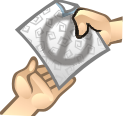
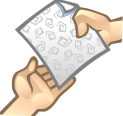
* Multiple selection for share button * Unshare All button is now Shares (email links button not finished)

Changed region(s): [[0.3171, 0.0517, 0.8293, 0.569]]

diff --git a/davis/trunk/WebContent/WEB-INF/ui.html b/davis/trunk/WebContent/WEB-INF/ui.html
@@ -43,6 +43,7 @@
    		.dojoxGrid-row-odd td {background:#e8f2ff;}
     	#metadataGrid {border: 1px solid #333; width: 400px; height: 300px;}
 		#permissionsGrid {border: 1px solid #333; width: 600px; height: 200px;}
+		#sharesGrid {border: 1px solid #333;}
 		#replicasGrid {border: 1px solid #333;}
 		#listingGrid .dojoxGridHeader .dojoxGridCell {background: #E8E8E8; font-size: 120%; text-align: center; border: 1px solid; border-color: white; padding-bottom: 4px;}
 		#listingGrid .dojoxGridRow {background: white;}
@@ -129,8 +130,8 @@
 			if ("<parameter sharinguser/>" == "null" || "<parameter sharingkey/>" == "null") {
 				if (dojo.byId("sharingButtonHolder") != null)
 					dojo.html.set(dojo.byId("sharingButtonHolder"), '');  // Hide sharing button if no sharing user configured
-				if (dojo.byId("unshareAllButton") != null)
-					dojo.html.set(dojo.byId("unshareAllButton"), '');
+				if (dojo.byId("sharesButton") != null)
+					dojo.html.set(dojo.byId("sharesButton"), '');
 				listingLayout[listingLayoutMetadataField].hidden = true;
 		//		listingGrid.setStructure(listingLayout);
 			}
@@ -145,7 +146,7 @@
 			createDomainRow();
 			borderContainer.layout();
 			listingStore.refreshDisplay(true);
-			unshareAllGrid.setSortIndex(1, true);
+			sharesGrid.setSortIndex(1, true);
 			
 			if (dojo.isMozilla)
 				HTMLElement.prototype.click = function() { // Add a click() method to all elements
@@ -230,7 +231,7 @@
     	var replicasLayout;
     	var listingLayout;
     	var destinationLayout;
-    	var unshareAllLayout;
+    	var sharesLayout;
     	
 		var metadataStore;
 		var permissionsStore;
@@ -239,7 +240,7 @@
 		var replicasStore;		
 		var listingStore;
 		var destinationStore;
-		var unshareAllStore;
+		var sharesStore;
 		
 		function initVariables() {
 			metadataLayout = ("<parameter servertype/>" == 'irods') ? 
@@ -273,7 +274,7 @@
 	     			{field: "number", width: "auto", name: "Replica Number"}
 	    		];
 
-	    	unshareAllLayout = [
+	    	sharesLayout = [
 	    		    {field: "file", width: "250px", name: "File", formatter: gridFormatUnescape},
 	    		    {field: "dir", width: "auto", name: "Collection", formatter: gridFormatUnescape}
 	    		];
@@ -296,7 +297,7 @@
 			resetDomainsStore();
 			resetUsersStore();
 			resetReplicasStore();
-			resetUnshareAllStore();
+			resetSharesStore();
 
 			listingStore = new ListingStore({
 				id: "listingStore", // For debugging
@@ -448,8 +449,8 @@
     		dojo.connect(listingGrid, 'onHeaderClick', function(e){
     			selectAll(false); // Clear selections if change of sort (because selections aren't recalculated to match new row order)
     		});
-    		dojo.connect(unshareAllGrid, 'onHeaderClick', function(e){
-    			unshareAllGrid.selection.deselectAll(); // Clear selections if change of sort (because selections aren't recalculated to match new row order)
+    		dojo.connect(sharesGrid, 'onHeaderClick', function(e){
+    			sharesGrid.selection.deselectAll(); // Clear selections if change of sort (because selections aren't recalculated to match new row order)
     		});  		
     		dojo.connect(dojo.byId("shareRadioButton"), 'onClick', function(e){
     			refreshButtons();
@@ -539,8 +540,8 @@
 			replicasStore = resetStore(replicasStore, replicasGrid, replicasLayout, false);
 		}
 		
-		function resetUnshareAllStore() { 
-			unshareAllStore = resetStore(unshareAllStore, unshareAllGrid, unshareAllLayout, false);
+		function resetSharesStore() { 
+			sharesStore = resetStore(sharesStore, sharesGrid, sharesLayout, false);
 		}
 		
 		function resetDomainsStore() { 
@@ -1285,7 +1286,7 @@
 			dojo.html.set(dojo.byId('destinationMoveCopyButton'), mode);
 
 //			var s = sharedIsSelected() ? "Unshare" : "Share";
-			dojo.byId('shareOKButton').disabled = !(dojo.byId('shareRadioButton').checked || dojo.byId('unshareRadioButton').checked);
+			enableButton('shareOKButton', dojo.byId('shareRadioButton').checked || dojo.byId('unshareRadioButton').checked);
 //			if (button) {
 //				button.title = s;
 //				dojo.html.set(button, s);
@@ -1294,7 +1295,8 @@
 			// TBD: For some reason, addMetadataButton would sometimes appear disabled. This is to prevent that. Need to investigate why.
 			enableButton('addMetadataButton', true); 
 			enableButton('uploadStartButton', !uploadInProgress && (dojo.byId('uploadTextField').value.length > 0));
-			enableButton('unshareButton', unshareAllGrid.selection.getSelectedCount() > 0);
+			enableButton('unshareButton', sharesGrid.selection.getSelectedCount() > 0);
+			enableButton('emailSharesButton', sharesGrid.selection.getSelectedCount() > 0);
 		}
 		
 		function setStatusPanel(html) {
@@ -1644,14 +1646,14 @@
 		}
 			
 		function unshareAll() {
-			showUnshareAll(false);
-			if (unshareAllGrid.selection.getSelectedCount() == 0)
+			showShares(false);
+			if (sharesGrid.selection.getSelectedCount() == 0)
 				return;
 		    if (!confirm(warnBulk()+'Are you sure you want to unshare the selected items?'))
 			    return;
 		
 			var list = "";
-			var selected = unshareAllGrid.selection.getSelected();
+			var selected = sharesGrid.selection.getSelected();
 			if (selected != null)
 				for (var i = 0; i < selected.length; i++) 
 					list += "\""+escapeJSON(encodeURI(decodeURIComponent(selected[i].dir+"/"+selected[i].file)))+"\",";
@@ -1692,9 +1694,9 @@
 	    		url: "?method=shares&uihandle="+listingStore.uiHandle,
 	    		load: function(responseObject, ioArgs){    
 	 					cursorBusy(false);
-						unshareAllStore=new dojo.data.ItemFileWriteStore({data: responseObject});
-						unshareAllGrid.setStore(unshareAllStore);	 
-						unshareAllGrid.selection.deselectAll();     			
+						sharesStore=new dojo.data.ItemFileWriteStore({data: responseObject});
+						sharesGrid.setStore(sharesStore);	 
+						sharesGrid.selection.deselectAll();     			
 	       				return responseObject;
 	    			},
 	    		error: function(response, ioArgs){
@@ -2083,13 +2085,21 @@
 //			shareFiles(listingStore.getCurrentDirectory(), action);
 		}
 
-		function showUnshareAll(show) {
+		function showShares(show) {
 			if (show) {
-				resetUnshareAllStore();
+				resetSharesStore();
 				getShares();
-				dialogUnshareAll.show();
+				dialogShares.show();
 			} else {
-				dialogUnshareAll.hide();
+				dialogShares.hide();
+			}
+		}
+
+		function emailSharesLinks() {
+			var selected = sharesGrid.selection.getSelected();
+			if (selected != null) {
+				//for (var i = 0; i < selected.length; i++) 
+					//selected[i].
 			}
 		}
 
@@ -2491,11 +2501,12 @@
 		</tr>
 	</table>
 </div>
-<div dojoType="dijit.Dialog" jsId="dialogShare" title="Sharing" onCancel="setCursor(false, true)">
+<div style="width:300px;" dojoType="dijit.Dialog" jsId="dialogShare" title="Sharing" onCancel="setCursor(false, true)">
 	<div style="text-align: left;">
+	    Please select an action:<br><br>
 		<input type="radio" name="sharingRadioButtons" id="shareRadioButton" value="share" onClick="refreshButtons()">
 		<label for="g1rb1">Share items</label>
-		<br><br>
+		<br>
 		<input type="radio" name="sharingRadioButtons" id="unshareRadioButton" value="unshare" onClick="refreshButtons()">
 		<label for="g1rb2">Unshare items</label>
 		<br><br><br>
@@ -2505,14 +2516,16 @@
 		<button type="button" onclick="dialogShare.hide()">Cancel</button>
 	</div>
 </div>
-<div style="width:90%;" dojoType="dijit.Dialog" jsId="dialogUnshareAll" title="Unshare" onCancel="setCursor(false, true)">
-	<small>Select the shared files owned by <parameter account/> to be unshared:<br><br></small>
-	<div autoHeight="10" structure="unshareAllLayout" dojoType="dojox.grid.DataGrid" id="unshareAllGrid" jsId="unshareAllGrid" loadingMessage="loading" 
+<div style="width:90%;" dojoType="dijit.Dialog" jsId="dialogShares" title="Shares" onCancel="setCursor(false, true)">
+	<small>Shared files owned by <parameter account/>:<br><br></small>
+	<div autoHeight="10" structure="sharesLayout" dojoType="dojox.grid.DataGrid" id="sharesGrid" jsId="sharesGrid" loadingMessage="loading" 
 	     autoHeight="true" onSelectionChanged="refreshButtons()"></div>
 	<br>
 	<div style="text-align: right;">
+		<button type="button" onclick="sharesGrid.selection.selectRange(0, sharesGrid.rowCount-1);">Select all</button>
+		<button type="button" id="emailSharesButton" onclick="dialogShares.hide(); emailSharesLinks()">Email links</button>
 		<button type="button" id="unshareButton" onclick="unshareAll()">Unshare</button>
-		<button type="button" onclick="dialogUnshareAll.hide()">Close</button>
+		<button type="button" onclick="dialogShares.hide()">Close</button>
 	</div>
 </div>
 <div dojoType="dijit.Dialog" jsId="dialogAbout" title="About" onCancel="setCursor(false, true)">
@@ -2571,7 +2584,7 @@
 											<span id="trashButton"><a title="Go to my trash folder" onclick="listingStore.gotoDirectory('<parameter trash/>', true); return false" href="<parameter trash/>"><img border="0" alt="trash" src="/images/trash.png" width="28" height="32"/></a></span>
 											<span id="loginButton"><a title="Login with authentication" onclick="login(); return false" href="login"><img border="0" alt="login" src="/images/login.png" width="26" height="32"/></a></span>
 											<span id="logoutButton"><a title="Logout of this session" onclick="logout(); return false" href="logout"><img border="0" alt="logout" src="/images/logout.png" width="26" height="32"/></a></span>
-											<span id="unshareAllButton"><a title="Unshare your shared items" onclick="showUnshareAll(true); return false" href="unshareAll"><img border="0" alt="unshare all" src="/images/unshare.png" width="32" height="32"/></a></span>	        					
+											<span id="sharesButton"><a title="Show your shared files" onclick="showShares(true); return false" href="shares"><img border="0" alt="unshare all" src="/images/unshare.png" width="32" height="32"/></a></span>	        					
 			        					</td>
 			        					<td align="left" valign="top" style="width:1px; padding-left:2px;" >
  		 	        						<button dojoType="dijit.form.DropDownButton" showLabel="false" type="button" title="Help" baseClass="iconButton" iconClass="questionIcon">
@@ -2700,7 +2713,7 @@
 	    <span id="sharingButtonHolder">
 		    <table width="100%" class="hoverBorderSide" border="0" cellspacing="0" cellpadding="6">
 		    	<tr>
-		    		<td class="activeItem" id="sharingButton" onclick="if (!activeItemIsEnabled('sharingButton')) return; showShare()" >Sharing</td>
+		    		<td class="activeItem" id="sharingButton" onclick="if (!activeItemIsEnabled('sharingButton')) return; showShare()" >Share/Unshare</td>
 		    	</tr>
 		    </table>
 		</span>

diff --git a/davis/trunk/src/webdavis/DefaultPostHandler.java b/davis/trunk/src/webdavis/DefaultPostHandler.java
@@ -800,6 +800,7 @@ public class DefaultPostHandler extends AbstractHandler {
 			if (notice != null && notice.length() > 0)
 				json.append("{"+escapeJSONArg("notice")+":"+escapeJSONArg(notice)+"}");
 			json.append("\n");
+			
 		} else if (method.equalsIgnoreCase("replicas")) {
 			String deleteResource = request.getParameter("delete");
 			String replicateResource = request.getParameter("replicate");
@@ -863,42 +864,40 @@ public class DefaultPostHandler extends AbstractHandler {
 	        	}
 	        }
 			json.append("\n]}");
+			
 		} else if (method.equalsIgnoreCase("shares")) {
 			json.append("{\n"+escapeJSONArg("items")+":[\n");
 			if (!(davisSession.getRemoteFileSystem() instanceof IRODSFileSystem)) 
 				Log.log(Log.ERROR, "Sharing is only supported for iRODS");
 			else {
-				String sharingKey = Davis.getConfig().getSharingKey();
-				if (sharingKey != null) {		
-					MetaDataSelect selectsFile[] = 
-						MetaDataSet.newSelection(new String[] {
-				//				IRODSMetaDataSet.FILE_ACCESS_NAME,
-								//IRODSMetaDataSet.FILE_ACCESS_USER_ID,
-								IRODSMetaDataSet.OWNER,							
-								IRODSMetaDataSet.FILE_NAME,
-								IRODSMetaDataSet.DIRECTORY_NAME
-						});
-					MetaDataCondition conditionsFile[];
-					conditionsFile = new MetaDataCondition[] {
-							MetaDataSet.newCondition(IRODSMetaDataSet.META_DATA_ATTR_NAME, MetaDataCondition.EQUAL, sharingKey),
-							MetaDataSet.newCondition(IRODSMetaDataSet.OWNER, MetaDataCondition.EQUAL, davisSession.getAccount()), 
-					};
-//					try {
-						MetaDataRecordList[] fileDetails = ((IRODSFileSystem)davisSession.getRemoteFileSystem()).query(conditionsFile, selectsFile, DavisUtilities.JARGON_MAX_QUERY_NUM);
-			 			if (fileDetails == null) 
-			    			fileDetails = new MetaDataRecordList[0];	
-			 			int i = 0;
-			    		for (MetaDataRecordList p:fileDetails) {
-			    			String dirName = (String)p.getValue(IRODSMetaDataSet.DIRECTORY_NAME);
-			    			String fileName = (String)p.getValue(IRODSMetaDataSet.FILE_NAME);
-							if (i++ > 0) json.append(",\n");
-							json.append("{"+escapeJSONArg("file")+":\""+FSUtilities.escape(fileName)+"\",");
-							json.append(escapeJSONArg("dir")+":\""+FSUtilities.escape(dirName)+"\"}");
-			        	}
-//					} catch (IOException e) {
-//						e.printStackTrace();
-//					}
-				}
+//				String sharingKey = Davis.getConfig().getSharingKey();
+//				if (sharingKey != null) {		
+//					MetaDataSelect selectsFile[] = 
+//						MetaDataSet.newSelection(new String[] {
+//				//				IRODSMetaDataSet.FILE_ACCESS_NAME,
+//								//IRODSMetaDataSet.FILE_ACCESS_USER_ID,
+//								IRODSMetaDataSet.OWNER,							
+//								IRODSMetaDataSet.FILE_NAME,
+//								IRODSMetaDataSet.DIRECTORY_NAME
+//						});
+//					MetaDataCondition conditionsFile[];
+//					conditionsFile = new MetaDataCondition[] {
+//							MetaDataSet.newCondition(IRODSMetaDataSet.META_DATA_ATTR_NAME, MetaDataCondition.EQUAL, sharingKey),
+//							MetaDataSet.newCondition(IRODSMetaDataSet.OWNER, MetaDataCondition.EQUAL, davisSession.getAccount()), 
+//					};
+//					MetaDataRecordList[] fileDetails = ((IRODSFileSystem)davisSession.getRemoteFileSystem()).query(conditionsFile, selectsFile, DavisUtilities.JARGON_MAX_QUERY_NUM);
+					MetaDataRecordList[] fileDetails = getShares(davisSession);
+					if (fileDetails == null) 
+		    			fileDetails = new MetaDataRecordList[0];	
+		 			int i = 0;
+		    		for (MetaDataRecordList p:fileDetails) {
+		    			String dirName = (String)p.getValue(IRODSMetaDataSet.DIRECTORY_NAME);
+		    			String fileName = (String)p.getValue(IRODSMetaDataSet.FILE_NAME);
+						if (i++ > 0) json.append(",\n");
+						json.append("{"+escapeJSONArg("file")+":\""+FSUtilities.escape(fileName)+"\",");
+						json.append(escapeJSONArg("dir")+":\""+FSUtilities.escape(dirName)+"\"}");
+		        	}
+//				}
 			}
 			json.append("\n]}");
 			
@@ -920,7 +919,7 @@ public class DefaultPostHandler extends AbstractHandler {
 							if (name.trim().length() == 0)
 								continue;	// If for any reason name is "", we MUST skip it because that's equivalent to home!   	 
 							file = getRemoteFile(name, davisSession);
-							String s = share(file, false);
+							String s = share(davisSession, file, false);
 							if (s != null) {
 								response.sendError(HttpServletResponse.SC_FORBIDDEN, s);
 								return;
@@ -969,7 +968,7 @@ public class DefaultPostHandler extends AbstractHandler {
 					}
 	       	
 					if (s == null)
-						s = share(file, action.equals("share"));
+						s = share(davisSession, file, action.equals("share"));
 		        	if (s != null) {
 	        			response.sendError(HttpServletResponse.SC_FORBIDDEN, s);
 	        			return;
@@ -1110,7 +1109,42 @@ public class DefaultPostHandler extends AbstractHandler {
 		op.close();
 	}
 	
-	private String share(RemoteFile file, boolean share) {
+	private MetaDataRecordList[] getShares(DavisSession davisSession) throws IOException{
+		
+		return getShares(davisSession, null, null);
+	}
+
+	private MetaDataRecordList[] getShares(DavisSession davisSession, String directory, String fileName) throws IOException{
+		
+		String sharingKey = Davis.getConfig().getSharingKey();
+		if (sharingKey == null)
+			return null;		
+
+		MetaDataSelect selectsFile[] = 
+		MetaDataSet.newSelection(new String[] {
+//				IRODSMetaDataSet.FILE_ACCESS_NAME,
+				//IRODSMetaDataSet.FILE_ACCESS_USER_ID,
+				IRODSMetaDataSet.OWNER,							
+				IRODSMetaDataSet.FILE_NAME,
+				IRODSMetaDataSet.DIRECTORY_NAME
+		});
+		MetaDataCondition conditionsFile[];
+		if (directory == null)
+			conditionsFile = new MetaDataCondition[] {
+					MetaDataSet.newCondition(IRODSMetaDataSet.META_DATA_ATTR_NAME, MetaDataCondition.EQUAL, sharingKey),
+					MetaDataSet.newCondition(IRODSMetaDataSet.OWNER, MetaDataCondition.EQUAL, davisSession.getAccount()), 
+			};
+		else
+			conditionsFile = new MetaDataCondition[] {
+				MetaDataSet.newCondition(IRODSMetaDataSet.META_DATA_ATTR_NAME, MetaDataCondition.EQUAL, sharingKey),
+				MetaDataSet.newCondition(IRODSMetaDataSet.OWNER, MetaDataCondition.EQUAL, davisSession.getAccount()), 
+				MetaDataSet.newCondition(IRODSMetaDataSet.FILE_NAME, MetaDataCondition.EQUAL, fileName), 
+				MetaDataSet.newCondition(IRODSMetaDataSet.DIRECTORY_NAME, MetaDataCondition.EQUAL, directory), 
+			};
+		return ((IRODSFileSystem)davisSession.getRemoteFileSystem()).query(conditionsFile, selectsFile, DavisUtilities.JARGON_MAX_QUERY_NUM);
+	}
+	
+	private String share(DavisSession davisSession, RemoteFile file, boolean share) {
 		
     	if (!file.isDirectory()) {	// Can't share a directory
 			String sharingKey = Davis.getConfig().getSharingKey();
@@ -1153,6 +1187,13 @@ public class DefaultPostHandler extends AbstractHandler {
 						Log.log(Log.ERROR,"Sharing not implemented for SRB");
 					}else 
 					if (fileSystem instanceof IRODSFileSystem) {
+						if (share) {
+							MetaDataRecordList[] fileDetails = getShares(davisSession, file.getParent(), file.getName());
+							if (!(fileDetails == null || fileDetails.length == 0)) {
+								Log.log(Log.DEBUG, file.getPath()+" is already shared - ignoring");
+								return null;
+							}
+						}
 						Log.log(Log.DEBUG, "removing metadata field '"+sharingKey+"' for "+username+" to end sharing");
 						((IRODSFile)file).deleteMetaData(new String[]{sharingKey,"%","%"});
 						if (share) {

diff --git a/davis/trunk/src/webdavis/DavisUtilities.java b/davis/trunk/src/webdavis/DavisUtilities.java
@@ -538,15 +538,15 @@ public class DavisUtilities {
   //  		System.err.println("uri="+uri);
   			return uri.toString();
     	} catch (Exception e) {
-  //  		System.err.println("bad uri:"+fileName);
+    		Log.log(Log.DEBUG, "Failed to encode file name: bad uri:"+fileName);
+//    		String s = null;
+//      	  	try {
+//      	  		s = URLEncoder.encode(fileName, "UTF-8");
+//      	  	} catch (UnsupportedEncodingException e2) {}
+//      	  	s = s.replace("+", "%2B");
+//      	  	return s;
     	}
     	return null;
-//    	  String s = null;
-//    	  try {
-//    		  s = URLEncoder.encode(url, "UTF-8");
-//    	  } catch (UnsupportedEncodingException e) {}
-//    	  s = s.replace("+", "%2B");
-//    	  return s;
     }
     
     public static String getStackTrace(Throwable e) {
